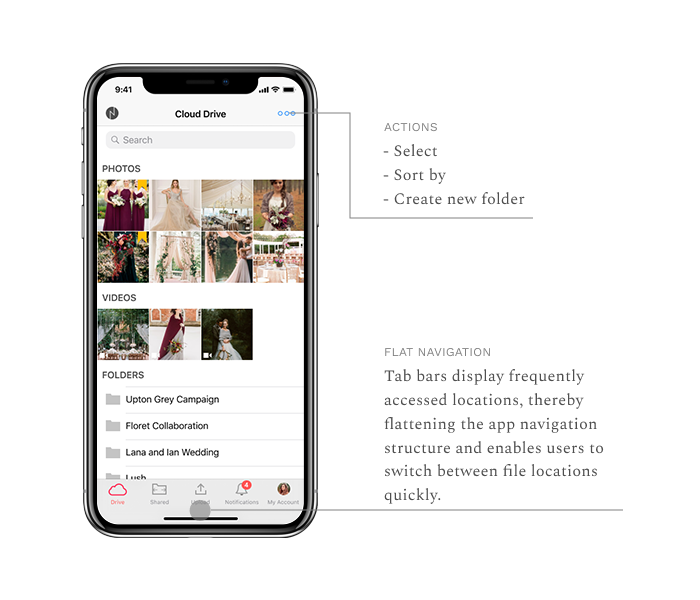
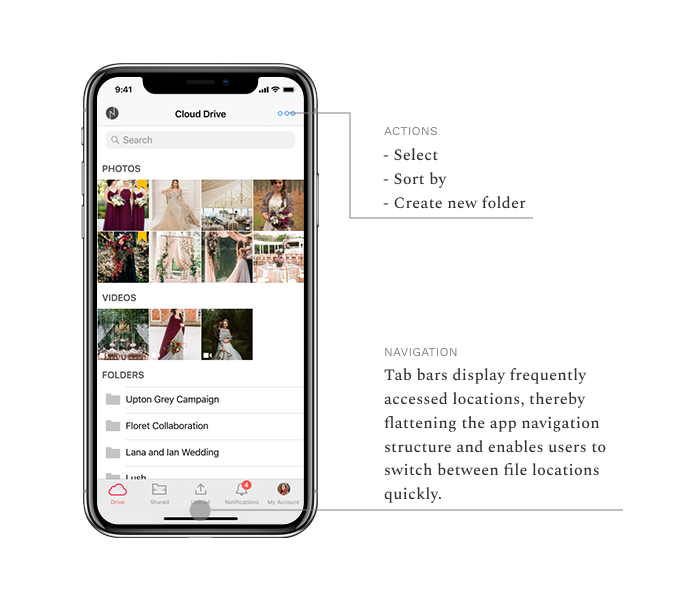
12revision

Changed region(s): [[0.54, 0.57, 0.87, 0.84], [0.54, 0.21, 0.75, 0.36]]

diff --git a/casestudy-NimbusDash.html b/casestudy-NimbusDash.html
@@ -4,6 +4,8 @@
   <meta charset="utf-8">
   <title>Rachel's UX Portfolio: Nimbus Dashboard</title>
   <meta name="viewport" content="width=device-width, initial-scale=1">
+  <!-- favicon -->
+  <link rel="icon" type="image/png" href="assets/homepage/ra-favicon.png">
   <!-- Reset.css -->
   <link rel="stylesheet" href="css/reset.css">
   <!-- master.css -->
@@ -91,23 +93,62 @@
         <!-- section2 -->
         <h2 id="section2" class="section-title">DESIGN</h2>
         <div class="page-separator"></div>
-        <h3>Dashboard Layout Diagram</h3>
+        <h3>Dashboard Components</h3>
         <p>After scrutinizing the layout and navigation structure of several cloud platforms and validating design decisions after several rounds of user-testing, a clean dashboard design with a top horizontal toolbar and a right-aligned support pane prove to be the most effective.</p>
-        <img class="img-fullwidth" src="assets/csNimbusDash/2x/DashDiagram.png" />
-        <h4>Commenting feature</h4>
-        <p>I conducted a competitive analysis between four leading platforms and identified a growing trend towards more advanced commenting features that allow users to track conversation histories in their shared documents. Nimbus offers users the ability to track and view their comment thread history and @mention collaborators. Users can choose between commenting on specific document locations, or starting general conversations that apply to the entire document. </p>
-        <img class="img-fullwidth" src="assets/csNimbusDash/1x/DashComment.png" />
-        <h4>Flexible organization</h4>
-        <p>Nimbus offers users the ability to track and view their comment thread history and @mention collaborators. Users can choose between commenting on specific document locations, or starting general conversations that apply to the entire document.</p>
-        <img class="img-fullwidth" src="assets/csNimbusDash/1x/DashOrganize.png" />
-        <h3>Nimbus Mobile</h3>
-        <p>The Nimbus mobile app is designed to give users the same powerful organization and collaboration features that the Nimbus desktop counterpart offers. The concept of the responsive toolbar translates into a responsive set of tab bars. When loading the app, the tab bars display frequently-accessed locations—thereby flattening the app structure. Upon user’s selection, the tab bars shifts to display frequently-performed actions such as ‘tag’ and ‘move’.</p>
-        <div class="img-contain4">
-          <img class="img-incontain4" src="assets/csNimbusDash/1x/AppDiagram1.png"/>
-          <img class="img-incontain4" src="assets/csNimbusDash/1x/AppDiagram2.png"/>
-          <img class="img-incontain4" src="assets/csNimbusDash/1x/AppDiagram3.png"/>
-          <img class="img-incontain4" src="assets/csNimbusDash/1x/AppDiagram4.png"/>
+
+        <!--start of dash desktop diagram-->
+        <div class="diagramWide">
+          <img class="img-dashdiagram" src="assets/csNimbusDash/1x/DashDiagram.png" />
         </div>
+        <div class="diagramNarrow">
+          <h4>Primary Controls</h4>
+          <p>Breadcrumbing as a primary navigation tool is essential in a file organization software whose files can be buried several levels deep within folders. User tests reveal that the optimal location for file paths is at the top left portion of the screen.</p>
+          <img class="img-fullwidth" src="assets/csNimbusDash/1x/dashControls.png" />
+          <p>Anticipating the user’s next actions allow for a responsive rather than a static set of toolbars. If the user has not made any file selections, then they are likely to upload or create a new folder.</p>
+          <div class="img-contain1">
+            <img class="img-incontain1" src="assets/csNimbusDash/1x/dashToolbar1.png" />
+          </div>
+          <p>Once file selections have been made, the tab bar switches to a series of functions that the user is likely to want to do next.</p>
+          <div class="img-contain1">
+            <img class="img-incontain1" src="assets/csNimbusDash/1x/dashToolbar2.png" />
+          </div>
+          <h4>Location Pane and Primary Pane</h4>
+          <p>Frequently-visited locations are located along the left edge of the dashboard. Rather than placing a list of file locations on an adjacent sidebar and creating a visual separation (Dropbox and Google Drive took this approach), I opted to remove any visual separation from the screen section that will be affected once a user makes a location selection.</p>
+          <img class="img-fullwidth" src="assets/csNimbusDash/1x/dashPrimary.png" />
+          <h4>Support Pane</h4>
+          <p>This collapsible pane houses secondary functions that enhances but are not essential to the majority of user tasks. For instance, it displays the cloud file organization tree in ‘location mode’, and the comment summary in ‘comment mode.’</p>
+          <img class="img-fullwidth" src="assets/csNimbusDash/1x/dashSupport.png" />
+        </div>
+        <!--end of dash desktop diagram-->
+
+        <h4>Document Commenting Feature</h4>
+        <p>I conducted a competitive analysis between four leading platforms and identified a growing trend towards more advanced commenting features that allow users to track conversation histories in their shared documents. Users can choose between commenting on specific document locations, or starting general conversations that apply to the entire document. </p>
+        <img class="img-fullwidth" src="assets/csNimbusDash/1x/DashComment.png" />
+        <h3>Mobile App Components</h3>
+        <p>The Nimbus mobile app is designed to give users the same powerful organization and collaboration features that the Nimbus desktop counterpart offers.</p>
+        <p>The concept of the responsive toolbar translates into a responsive set of tab bars. When loading the app, the tab bars display frequently-accessed locations—thereby flattening the app structure.</p>
+
+        <!--start of dash mobile diagram-->
+        <div class="diagramMobileWide">
+          <div class="img-contain4">
+            <img class="img-incontain4" src="assets/csNimbusDash/1x/AppDiagram1.png"/>
+            <img class="img-incontain4" src="assets/csNimbusDash/1x/AppDiagram2.png"/>
+            <img class="img-incontain4" src="assets/csNimbusDash/1x/AppDiagram3.png"/>
+            <img class="img-incontain4" src="assets/csNimbusDash/1x/AppDiagram4.png"/>
+          </div>
+        </div>
+        <div class="diagramMobileNarrow">
+          <div class="img-contain4">
+            <img class="img-incontain4" src="assets/csNimbusDash/1x/app1.png"/>
+            <img class="img-incontain4" src="assets/csNimbusDash/1x/app2.png"/>
+            <p>Anticipating the user’s next actions allow for a responsive rather than a static tab bar. Once file selections have been made, the tab bar switches from location-based functions to action-based functions. </p>
+            <img class="img-incontain4" src="assets/csNimbusDash/1x/app3.png"/>
+            <img class="img-incontain4" src="assets/csNimbusDash/1x/app4.png"/>
+            <p>In comment-mode, the tab bar adapts to anticipate the user’s next actions after opening a file.</p>
+          </div>
+        </div>
+        <!--end of dash mobile diagram-->
+
         <!-- section3 -->
         <h2 id="section3" class="section-title">PROCESS</h2>
         <div class="page-separator"></div>

diff --git a/css/casestudy.css b/css/casestudy.css
@@ -266,6 +266,12 @@ nav {
   margin: 4em 0em;
 }
 
+.img-dashdiagram {
+  width: 100%;
+  display: block;
+  margin: 4em 0em;
+}
+
 .img-contain4 {
   padding-left: 1.5%;
   margin: 4em 0em;
@@ -370,9 +376,16 @@ footer {
 
 /* bluezone */
 @media only screen and (min-width: 1024px) and (max-width: 1279px) {
+
   /* .container {
   border: 1px solid blue;
   } */
+
+  .diagramNarrow,
+  .diagramMobileNarrow {
+    display: none;
+  }
+
 }
 
 /* redzone */
@@ -408,10 +421,9 @@ footer {
     max-width: 70%;
     margin-left: 15%;
   }
-  .img-incontain4 {
-    margin: auto;
-    width: 80%;
-    display: block;
+  .diagramWide,
+  .diagramMobileWide {
+    display: none;
   }
   .img-contain2 {
     flex-direction: column;    /*adjust to 'column' for vertical layout*/
@@ -486,6 +498,10 @@ footer {
   }
   .casestudy h2 {
     font-size: 2em;
+  }
+  .diagramWide,
+  .diagramMobileWide {
+    display: none;
   }
   .img-incontain4 {
     margin: auto;
@@ -573,13 +589,17 @@ footer {
   }
   .casestudy h4 {
     font-family: 'spectral', serif;
-    font-size: 1em;
+    font-size: 1.4375em;
     line-height: 1.5em;
-    margin-top: 1.5em;
+    margin-top: 1.04347826em;
     margin-bottom: 0em;
   }
   .casestudy h2 {
     font-size: 2em;
+  }
+  .diagramWide,
+  .diagramMobileWide {
+    display: none;
   }
   .img-incontain4 {
     margin: auto;

diff --git a/index.html b/index.html
@@ -39,10 +39,10 @@
       <!-- End of logo and site nav code -->
       <div class="hero-image">
         <div class="hero-one">
-          <h3>Hello, I’m Rachel, a User Experience Designer with frontend knowledge. I craft meaningful digital experiences for social impact.</h3>
+          <h3>Hello, I’m Rachel, a User Experience Designer with experience in the frontend programming languages and a background in architectural design.</h3>
         </div>
         <div class="hero-one">
-          <h3>As a former architectural designer, I thoroughly enjoy the process of designing digital environments that encourage meaningful human interactions.</h3>
+          <h3>I specialize in defining UX strategy, structuring information architecture, and designing intuitive user interfaces—to help you craft meaningful digital experiences for social impact. </h3>
         </div>
         <div class="hero-two">
           <div class="hero-info">

diff --git a/pwArch.html b/pwArch.html
@@ -4,6 +4,8 @@
   <meta charset="utf-8">
   <title>Rachel's UX Portfolio: PastWork-Architecture</title>
   <meta name="viewport" content="width=device-width, initial-scale=1">
+  <!-- favicon -->
+  <link rel="icon" type="image/png" href="assets/homepage/ra-favicon.png">
   <!-- Reset.css -->
   <link rel="stylesheet" href="css/reset.css">
   <!-- master.css -->

diff --git a/pwFloristry.html b/pwFloristry.html
@@ -4,6 +4,8 @@
   <meta charset="utf-8">
   <title>Rachel's UX Portfolio: PastWork-Floristry</title>
   <meta name="viewport" content="width=device-width, initial-scale=1">
+  <!-- favicon -->
+  <link rel="icon" type="image/png" href="assets/homepage/ra-favicon.png">
   <!-- Reset.css -->
   <link rel="stylesheet" href="css/reset.css">
   <!-- master.css -->

diff --git a/pwFurn.html b/pwFurn.html
@@ -4,6 +4,8 @@
   <meta charset="utf-8">
   <title>Rachel's UX Portfolio: PastWork-Furniture</title>
   <meta name="viewport" content="width=device-width, initial-scale=1">
+  <!-- favicon -->
+  <link rel="icon" type="image/png" href="assets/homepage/ra-favicon.png">
   <!-- Reset.css -->
   <link rel="stylesheet" href="css/reset.css">
   <!-- master.css -->

diff --git a/casestudy-NimbusLanding.html b/casestudy-NimbusLanding.html
@@ -4,6 +4,8 @@
   <meta charset="utf-8">
   <title>Rachel's UX Portfolio: Nimbus Homepage</title>
   <meta name="viewport" content="width=device-width, initial-scale=1">
+  <!-- favicon -->
+  <link rel="icon" type="image/png" href="assets/homepage/ra-favicon.png">
   <!-- Reset.css -->
   <link rel="stylesheet" href="css/reset.css">
   <!-- master.css -->

diff --git a/about.html b/about.html
@@ -4,6 +4,8 @@
   <meta charset="utf-8">
   <title>Rachel's UX Portfolio: About</title>
   <meta name="viewport" content="width=device-width, initial-scale=1">
+  <!-- favicon -->
+  <link rel="icon" type="image/png" href="assets/homepage/ra-favicon.png">
   <!-- Reset.css -->
   <link rel="stylesheet" href="css/reset.css">
   <!-- master.css -->
